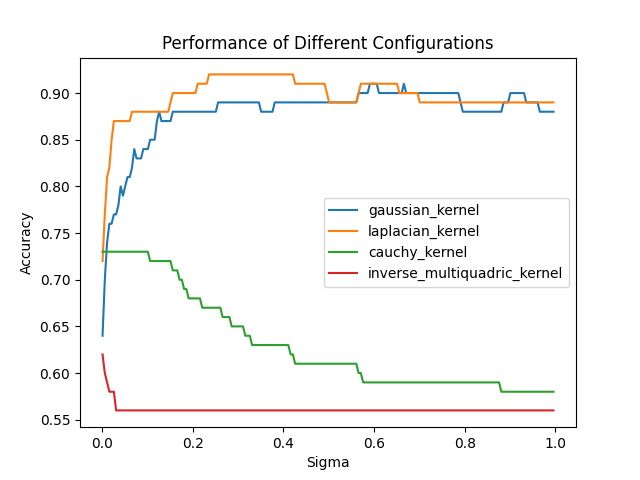
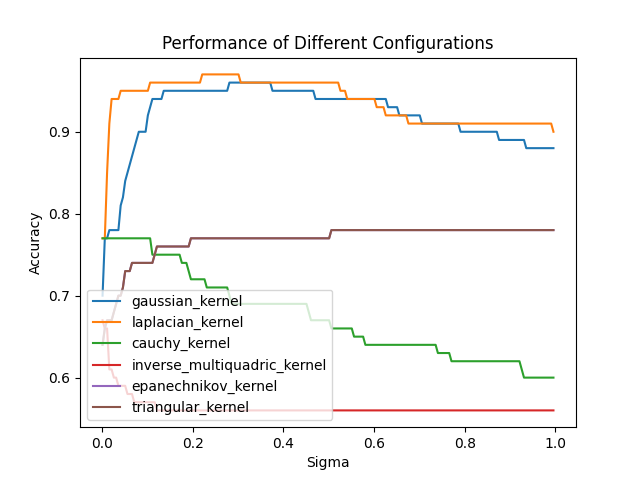
feat: Add kernel comparison images and update bibliography with additional references

diff --git a/src/kernels_comp.py b/src/kernels_comp.py
@@ -1,0 +1,52 @@
+import numpy as np
+import matplotlib.pyplot as plt
+import matplotlib.ticker as ticker
+
+x = np.linspace(-4, 4, 500)
+sigmas = [0.1, 0.3, 0.5, 1.0]
+colors = ["#dc2626", "#ea580c", "#2563eb", "#16a34a"]
+labels = [r"$\sigma = 0.1$", r"$\sigma = 0.3$", r"$\sigma = 0.5$", r"$\sigma = 1.0$"]
+
+def epanechnikov(d, s):
+    u = d / s
+    return np.where(np.abs(u) <= 1, 0.75 * (1 - u**2), 0.0)
+
+def triangular(d, s):
+    u = d / s
+    return np.where(np.abs(u) <= 1, 1 - np.abs(u), 0.0)
+
+kernels = {
+    "Gaussowska\n(Gaussian Kernel)":               lambda d, s: np.exp(-d**2 / (2*s**2)),
+    "Laplasjańska\n(Laplacian Kernel)":             lambda d, s: np.exp(-np.abs(d) / s),
+    "Cauchy'ego\n(Cauchy Kernel)":                  lambda d, s: 1 / (1 + d**2 / s**2),
+    "Odwrotna multikwadratowa\n(Inverse Multiquadric Kernel)": lambda d, s: 1 / np.sqrt(d**2 + s**2),
+    "Epanecznikowa\n(Epanechnikov Kernel)":          epanechnikov,
+    "Trójkątna\n(Triangular Kernel)":               triangular,
+}
+
+fig, axes = plt.subplots(2, 3, figsize=(15, 8))
+fig.patch.set_facecolor("#f8fafc")
+
+for ax, (title, fn) in zip(axes.flat, kernels.items()):
+    ax.set_facecolor("#ffffff")
+    for s, c, lbl in zip(sigmas, colors, labels):
+        y = fn(x, s)
+        ax.plot(x, y, color=c, linewidth=2.0, label=lbl)
+    ax.set_title(title, fontsize=10.5, fontweight="bold", pad=8, color="#1e293b")
+    ax.set_xlabel(r"$\|x - x_i\|$", fontsize=9.5, color="#475569")
+    ax.set_ylabel(r"$K(x, x_i)$", fontsize=9.5, color="#475569")
+    ax.legend(fontsize=8.5, framealpha=0.85, edgecolor="#cbd5e1")
+    ax.grid(True, linestyle="--", linewidth=0.5, alpha=0.6, color="#cbd5e1")
+    ax.tick_params(labelsize=8, colors="#475569")
+    for spine in ax.spines.values():
+        spine.set_edgecolor("#e2e8f0")
+    ax.set_xlim(-4, 4)
+    ax.set_ylim(bottom=0)
+    ax.xaxis.set_major_locator(ticker.MultipleLocator(1))
+
+fig.suptitle("Porównanie funkcji jądra dla różnych wartości " + r"$\sigma$",
+             fontsize=13, fontweight="bold", color="#0f172a", y=1.01)
+
+plt.tight_layout()
+plt.show()
+print("OK")
